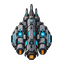
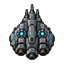
feat(assets): replace ship sprites with the worn industrial set

Changed region(s): [[0.125, 0.0625, 0.875, 0.9375]]

diff --git a/assets/STYLE.md b/assets/STYLE.md
@@ -95,3 +95,8 @@ The two must be instantly distinguishable by color and symbol.
 ## Engine flame update
 
 - `engine_flame` (horizontal spritesheet, 4 frames of 16×32, loops): one engine exhaust plume pointing DOWN. The code pins the TOP CENTER of each frame on a ship's nozzle and scales it: short and dim when idle, full length when thrusting. Its root sits at the top edge: a white-hot core ~4 px wide, then an orange `#FF9A3C` flame that tapers to a point ~26 px below the top and fades to fully transparent before the bottom edge, plus a soft orange glow ~10 px wide. Frames flicker: the length and the tip wobble slightly (±3 px) and the core stays fixed at the top centre in every frame, so the loop never jumps (frame 4 flows into frame 1). Drawn with additive blending; everything outside the flame is transparent.
+
+## Ship set 3 (worn industrial)
+
+- All player hulls and pirates now use the chunkier, worn military look: heavier armor plates, weathering and scuffs, same silhouettes, palette and size classes as above.
+- Engine nozzles are dark exhaust ports with a faint orange rim and no baked flames; `engine_flame` is drawn by code. Nozzle positions are fixed because the client pins flames there (offsets from the sprite centre): scout (-6,26) (6,26); fighter (-5,27) (5,27); freighter (-5,22) (0,22) (5,22); gunship (-11,22) (0,26) (11,22); raider (0,17); marauder (-5,20) (5,20); warlord (-8,24) (0,27) (8,24). Keep them when redrawing a ship.
